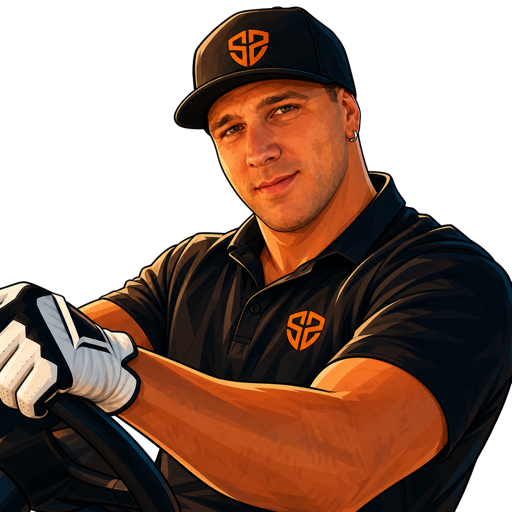
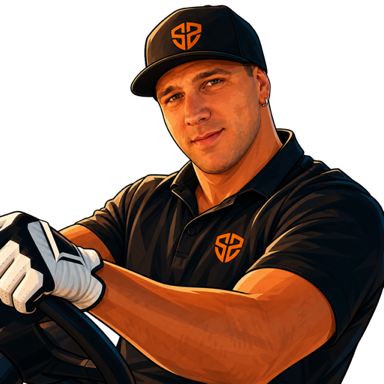
Fix login jank: preload images, soft compact, no empty flicker
Image load:
- Smaller coach photos (512px -> 384px source, ~50% reduction)
- HTML head <link rel="preload"> for all 4 coach images so browser
  starts fetching before JS runs (warm cache by mount time)

No empty-card flicker:
- v-if currentCoach on the hero card — render placeholder until
  coaches load, then swap to real card. Previously, an empty card
  mounted briefly between null-state and selectedCoach being set,
  causing visible flicker.

Smoother compact mode:
- Removed justify-content jump (kept layout centered)
- Less drastic card shrink (220 -> 160 instead of 132)
- Added missing transitions on font-size + padding so name/initial
  smoothly resize when PIN is focused

Changed region(s): [[0.2188, 0.8125, 0.3125, 0.875], [0.4375, 0.0312, 0.4688, 0.0625], [0.3438, 0.1875, 0.375, 0.2188]]

diff --git a/src/views/LoginView.vue b/src/views/LoginView.vue
@@ -65,26 +65,31 @@ async function onPinComplete(pin) {
     <div class="login-content">
       <h1 class="login-content__title">BenchBoss</h1>
 
-      <!-- Big trading-card of selected coach -->
+      <!-- Big trading-card of selected coach.
+           v-if avoids rendering an empty placeholder before coaches load,
+           which caused a visible flicker on initial mount. -->
       <Transition name="card-swap" mode="out-in">
         <div
+          v-if="currentCoach"
           :key="selectedCoach"
           :data-coach="currentCoachKey"
           :class="['login-card', { 'login-card--animated': hasInteracted }]"
         >
           <div class="login-card__avatar">
             <img
-              v-if="currentCoach?.image"
+              v-if="currentCoach.image"
               :src="currentCoach.image"
-              :alt="currentCoach?.name"
+              :alt="currentCoach.name"
               class="login-card__avatar-img"
               decoding="async"
               fetchpriority="high"
             />
-            <span v-else class="login-card__initial">{{ currentCoach?.name?.charAt(0) || '?' }}</span>
+            <span v-else class="login-card__initial">{{ currentCoach.name?.charAt(0) || '?' }}</span>
           </div>
-          <span class="login-card__name">{{ currentCoach?.name || '' }}</span>
+          <span class="login-card__name">{{ currentCoach.name }}</span>
         </div>
+        <!-- Placeholder while coaches load — same dimensions, no flicker -->
+        <div v-else class="login-card login-card--placeholder" aria-hidden="true"></div>
       </Transition>
 
       <!-- Coach picker with hint -->
@@ -168,40 +173,23 @@ async function onPinComplete(pin) {
   .login-content { gap: var(--ds-space-lg); }
 }
 
-/* Compact when PIN is focused (keyboard up) — shrink card + tighten gaps */
+/* Compact when PIN is focused — only shrink the hero card, keep layout
+   centered to avoid jarring justify-content jumps */
 .login-content:has(.login-content__form :focus-within) {
   gap: var(--ds-space-md);
-  padding-top: var(--ds-space-md);
-  justify-content: flex-start;
 }
 
 .login-content:has(.login-content__form :focus-within) .login-card {
-  width: 132px;
-  border-radius: 16px;
-  box-shadow: var(--ds-shadow-sm);
+  width: 160px;
+  border-radius: 18px;
 }
 
 .login-content:has(.login-content__form :focus-within) .login-card__name {
-  padding: 10px 8px 8px;
-  font-size: var(--ds-text-sm);
+  padding: 12px 8px 10px;
 }
 
 .login-content:has(.login-content__form :focus-within) .login-card__initial {
-  font-size: 58px;
-}
-
-.login-content:has(.login-content__form :focus-within) .login-picker-label {
-  display: none;
-}
-
-.login-content:has(.login-content__form :focus-within) .login-picker {
-  gap: 8px;
-}
-
-.login-content:has(.login-content__form :focus-within) .login-picker__item {
-  width: 36px;
-  height: 36px;
-  border-radius: 10px;
+  font-size: 68px;
 }
 
 .login-content__title {
@@ -236,6 +224,15 @@ async function onPinComplete(pin) {
 @media (max-height: 720px) {
   .login-card { width: 180px; }
 }
+
+/* Empty placeholder while coaches load — neutral, no animation */
+.login-card--placeholder {
+  background: var(--ds-color-bg-subtle);
+  border-color: var(--ds-color-border-light);
+  box-shadow: none;
+}
+
+.login-card--placeholder::after { display: none; }
 
 .login-card::after {
   content: '';
@@ -281,6 +278,7 @@ async function onPinComplete(pin) {
   font-weight: var(--ds-weight-semibold);
   letter-spacing: -0.03em;
   color: var(--coach-text, var(--ds-color-warm-text));
+  transition: font-size 240ms var(--ds-ease-out);
 }
 
 /* Animate figure on coach swap, but NOT on initial mount (would run before
@@ -316,6 +314,7 @@ async function onPinComplete(pin) {
   text-align: center;
   text-shadow: 0 1px 3px rgba(0, 0, 0, 0.55), 0 0 8px rgba(0, 0, 0, 0.25);
   z-index: 2;
+  transition: padding 240ms var(--ds-ease-out);
 }
 
 /* ---- Horizontal picker row ---- */

diff --git a/index.html b/index.html
@@ -8,6 +8,11 @@
     <meta http-equiv="Pragma" content="no-cache" />
     <meta http-equiv="Expires" content="0" />
     <link rel="icon" type="image/svg+xml" href="/favicon.svg" />
+    <!-- Preload coach photos so login screen has them in cache immediately -->
+    <link rel="preload" as="image" href="/coaches/iver.png" />
+    <link rel="preload" as="image" href="/coaches/jacob.png" />
+    <link rel="preload" as="image" href="/coaches/simon.png" />
+    <link rel="preload" as="image" href="/coaches/trond.png" />
     <title>BenchBoss</title>
     <meta name="description" content="Built for the beautiful chaos of grassroots football" />
   </head>
